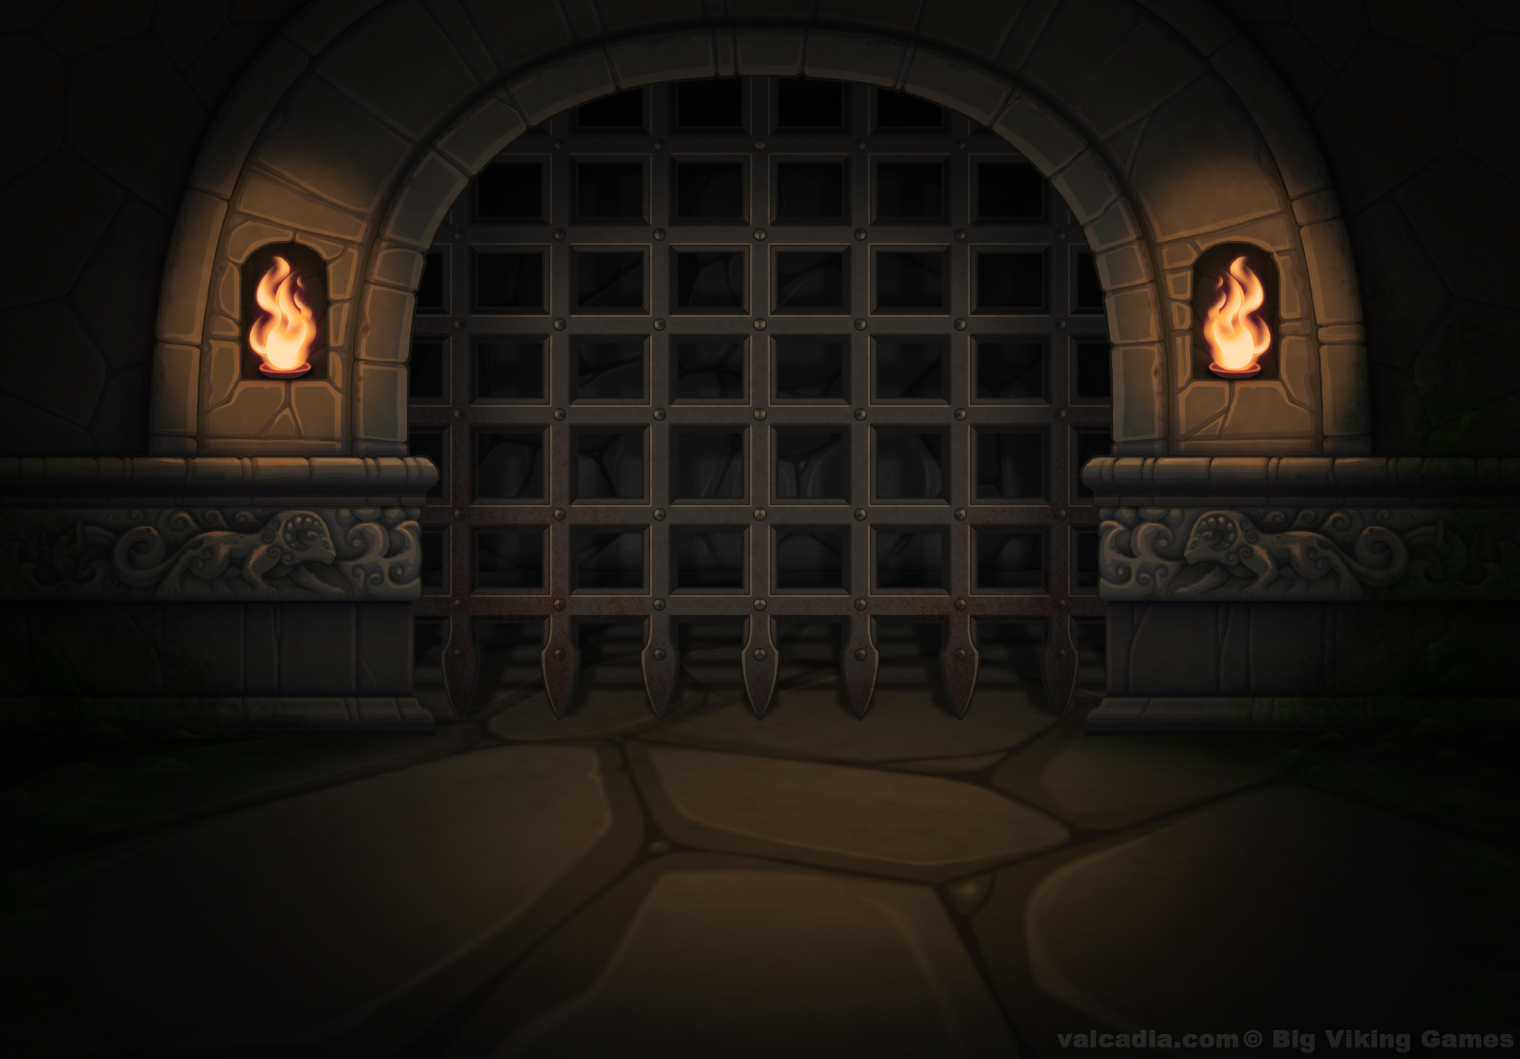
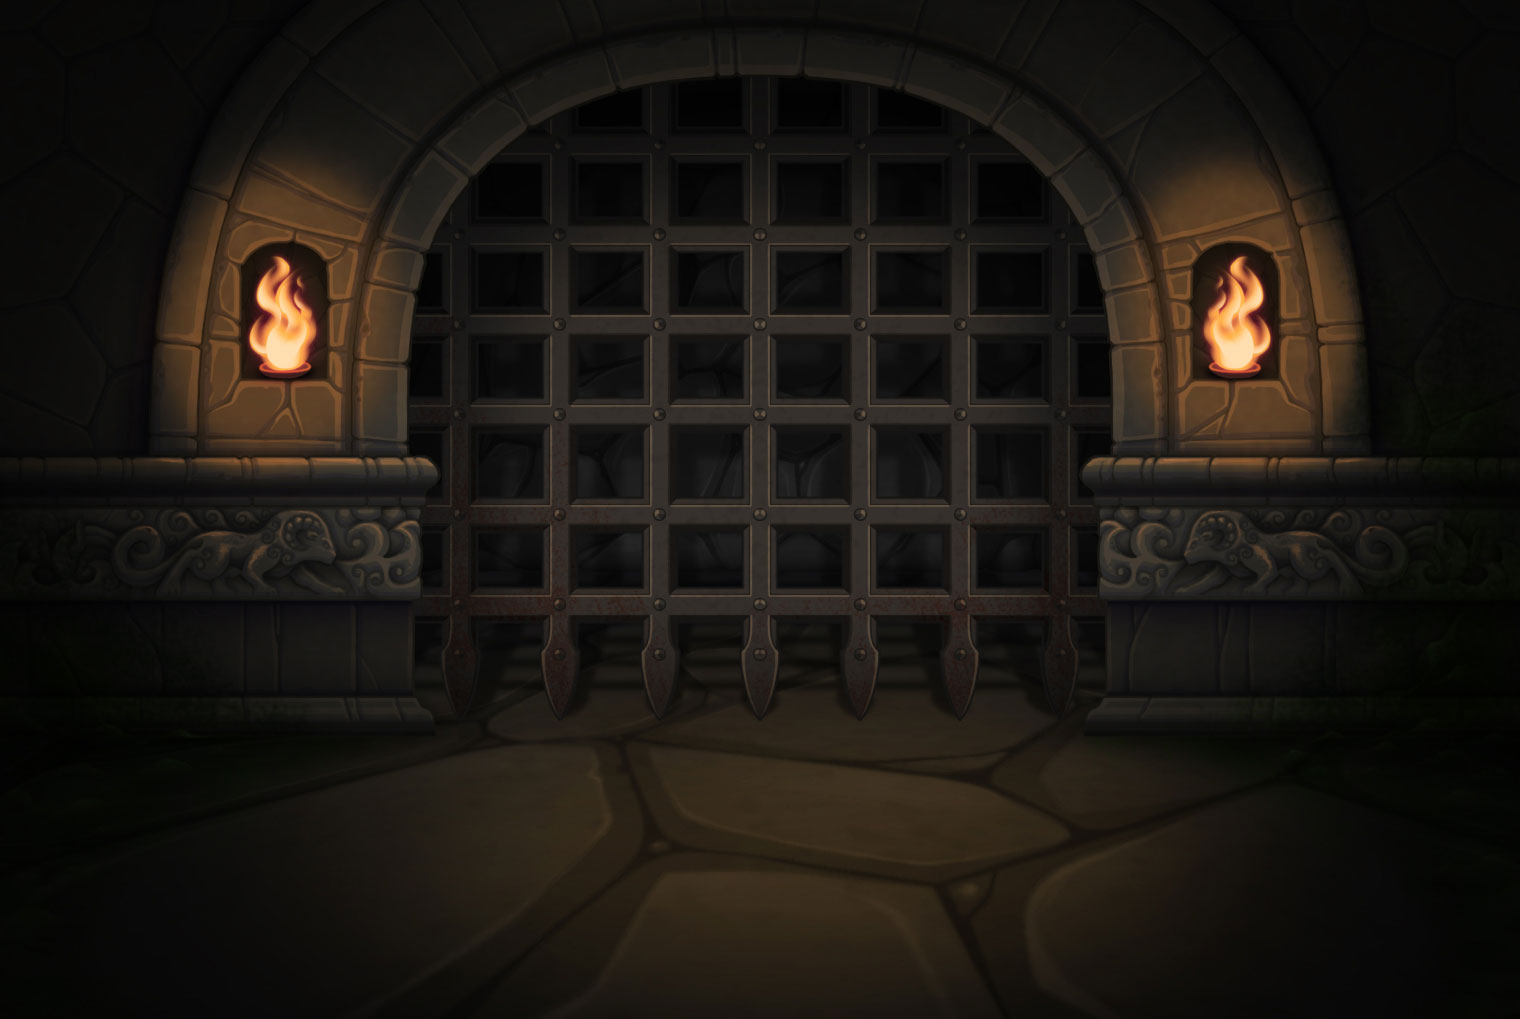
first ver0.6

diff --git a/js/index.js b/js/index.js
@@ -49,6 +49,7 @@ class GameCanvas extends Canvas {
             rims.y2 = this.canvas.height = height
         }
         var walls = []
+        var questLoc = []
         var questions = []
         var rims = {
             x: 0,
@@ -253,17 +254,17 @@ class GameCanvas extends Canvas {
           this.toggle = false
           drawBuilder(t)
         }
-        var drawCuestion = queLoc => {
+        var drawCuestion = qLoc => {
           this.area.drawImage(queImg, queLoc.x, queLoc.y)
-          questions.push(Object.assign(
-            {}, queLoc
+          questLoc.push(Object.assign(
+            {}, qLoc
           ))
         }
         var setQuestion = () => {
           if(!this.toggle && this.que){
             drawCuestion(bldLoc)
             this.que = false
-            console.log(questions)
+            console.log(questLoc)
           }
         }
         this.drawFinish = () => {
@@ -281,8 +282,24 @@ class GameCanvas extends Canvas {
           gameFin() : null
         }
         var checkQuest = currentLoc => {
-          return questions.some(
-            el => el.x === currentLoc.x && el.y === currentLoc.y
+          return questLoc.some(
+            (el, ind, arr) =>
+            {
+              var check = el.x === currentLoc.x && el.y === currentLoc.y
+              check ? arr.splice(ind,1) : null
+              return check
+            }
+          )
+        }
+        var askQuestion = arrElem => {
+          document.onkeydown = null
+          enemyPause = true
+          var mQues = addElem("div")
+          nQues.className = "questWindow"
+          arrElem.forEach(
+            elem => {
+              
+            }
           )
         }
         this.toggle = false
@@ -303,7 +320,7 @@ class GameCanvas extends Canvas {
                 document.onkeydown = null
                 console.log(JSON.stringify(walls))
                 console.warn("questions")
-                console.log(JSON.stringify(questions))
+                console.log(JSON.stringify(questLoc))
         }
         this.drawLab = () => {
           fetch("json/test.json")
@@ -311,11 +328,16 @@ class GameCanvas extends Canvas {
               .then(resp =>  resp.forEach(
                 el => drawWall(el)
               )))
-          fetch("json/quest.json")
+          fetch("json/queLoc.json")
             .then(response => response.json()
               .then(resp => resp.forEach(
                 el => drawCuestion(el)
               )))
+          fetch("json/questions.json")
+            .then(response => response.json()
+            .then(resp => resp.forEach(
+              el => questions.push(el)
+            )))
         }
         var enmCurPos = 0
         var enemyPause = false
@@ -333,7 +355,6 @@ class GameCanvas extends Canvas {
                   gameOver("YOU DIED", "died")
               }
           }.bind(this),300)
-          return timer
         }
         var enemyStart = () => {
             console.log(this,1)

diff --git a/css/main.css b/css/main.css
@@ -1,4 +1,4 @@
-body, .died, .win {
+body, .died, .win, .questWindow {
   display: flex;
   justify-content: center;
   align-items: center;
@@ -7,7 +7,7 @@ body, .died, .win {
   background-repeat: no-repeat;
 }
 body {
-  background-image: url("../images/backgroundV01.png");
+  background-image: url("../images/backgroundV01.jpg");
 }
 .died, .win {
   width: 100vw;
@@ -15,12 +15,19 @@ body {
   font-size: 92px;
 }
 .died {
-  background-image: url("../images/die.png");
+  background-image: url("../images/die.jpg");
   color: #420202;
   text-shadow: 0 0 10px red;
 }
 .win {
-  background-image: url("../images/win.jpg");
+  background-image: url("../images/win2.jpg");
   color: #7c7607;
   text-shadow: 0 0 10px yellow;
+}
+.questWindow {
+  position: absolute;
+  width: 100vw;
+  height: 100vh;
+  flex-direction: column;
+  background-image: url("../images/mad_bg.jpg");
 }
